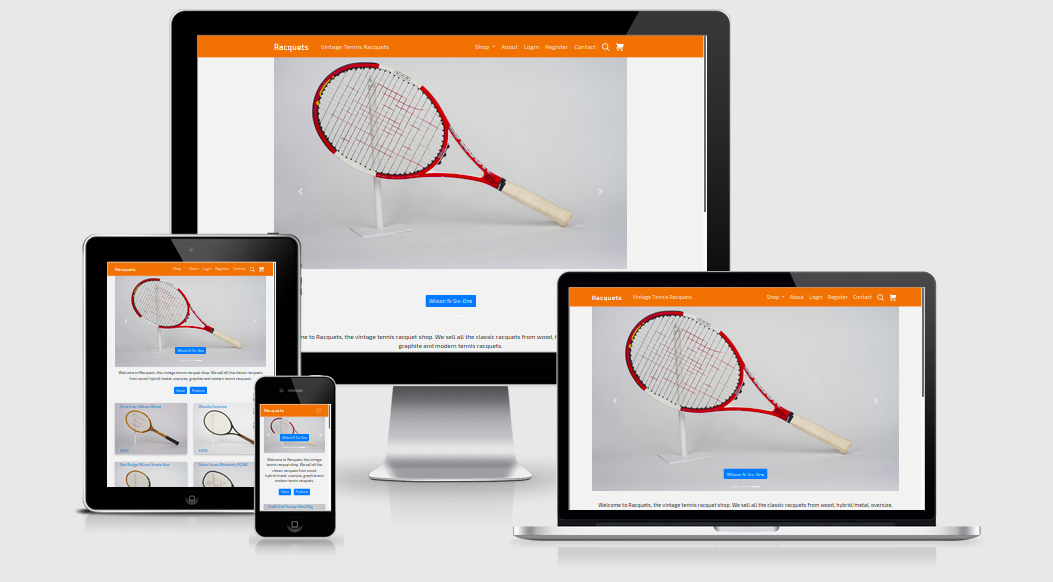
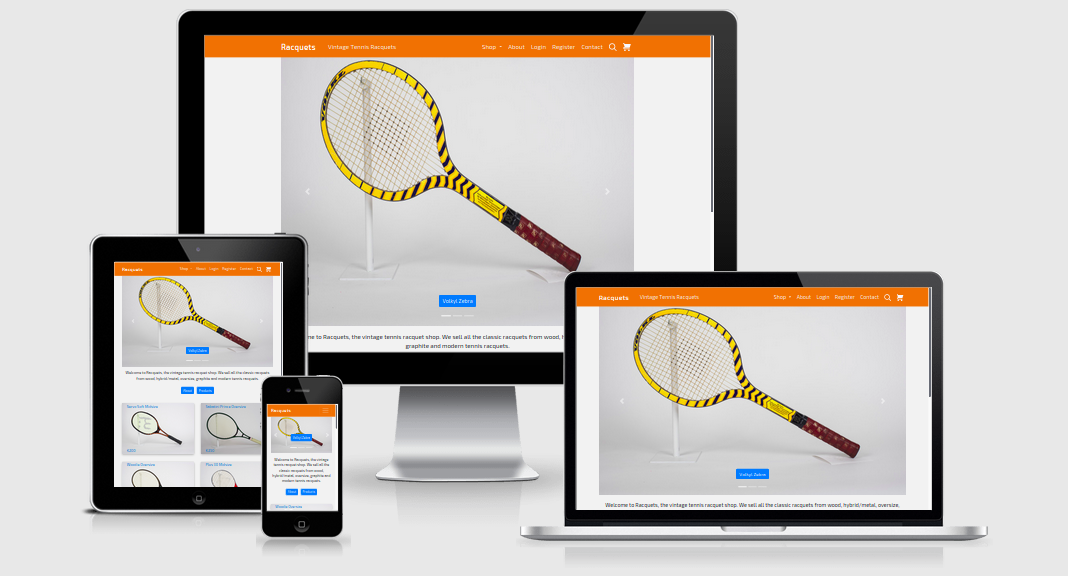
added code credit to css and new main image for readme

Changed region(s): [[0.0608, 0.0, 0.9421, 0.9688], [0.6078, 0.75, 0.6382, 0.7812]]

diff --git a/static/css/style.css b/static/css/style.css
@@ -30,9 +30,10 @@ h2 {
     font-size: 1.1rem;
 }
 
-/* keeps carosuel image at 100%*/
+/* code credit: https://bootstrapcreative.com/pattern/full-width-carousel-responsive-images*/
+/* keeps carousel image at 100% width and height auto*/
 .carousel-item .img-fluid {
-    width:100%;
+    width: 100%;
 }
 
 /* home page carousel image size*/
